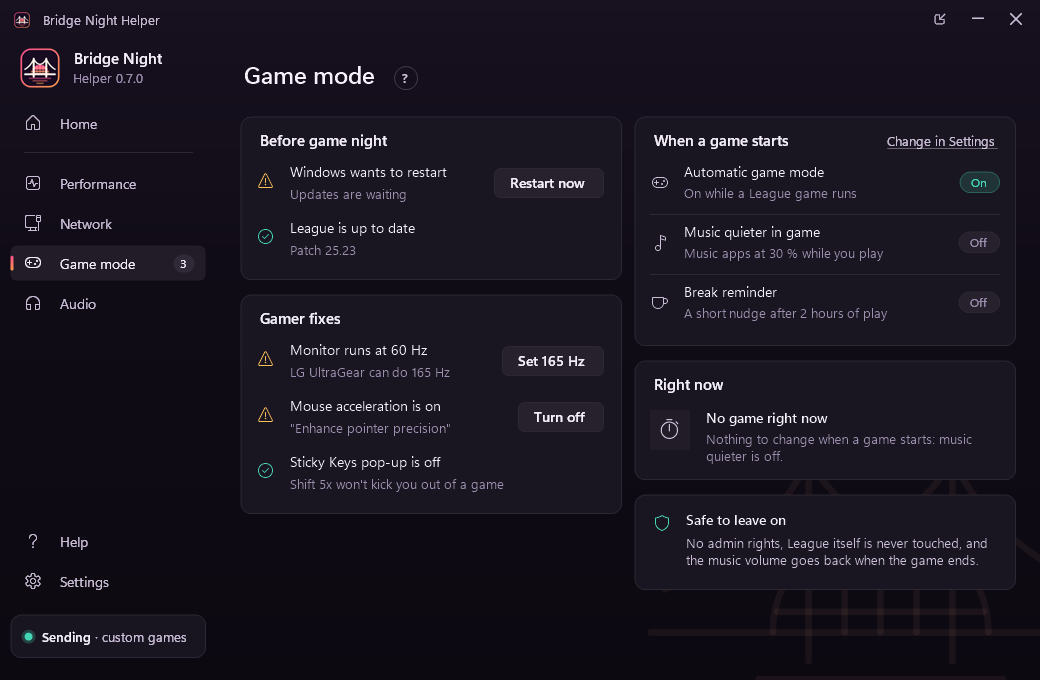
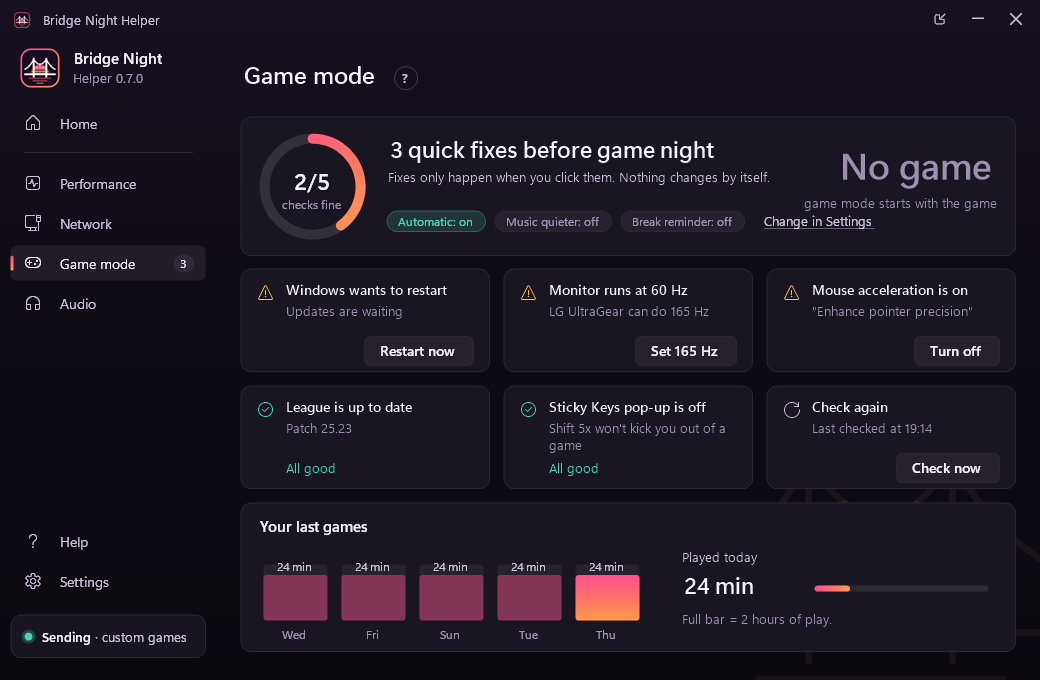
Helper 0.7: new Game mode page: readiness ring, checks as tiles with their fix, a small chart of your last games and today's play

diff --git a/helper/UiPcPages.cs b/helper/UiPcPages.cs
@@ -180,155 +180,226 @@ namespace BridgeNight
         }
     }
 
+    /// Game mode: one glance (ready ring + state), the checks as tiles with their fix button, and how long you played.
     class GameModePage : Page
     {
-        const int Slots = 4;
-        Card before, fixes;
-        readonly Label[][] beforeRows = new Label[Slots][], fixRows = new Label[Slots][];
-        readonly FlatButton[] beforeFix = new FlatButton[Slots], fixFix = new FlatButton[Slots];
-        List<PcCheck> beforeList = new List<PcCheck>(), fixList = new List<PcCheck>();
-        Label note, nowIcon, nowTitle, nowText;
+        const int Slots = 6, TileW = 250, TileH = 104, Gap = 13;
+        ReadyRing ring;
+        Label heroTitle, heroSub, stateBig, stateCaption, todayText, lengthsNote;
         Pill autoPill, musicPill, breakPill;
+        FlatButton change;
+        readonly Card[] tiles = new Card[Slots];
+        readonly Label[] tileIcon = new Label[Slots], tileTitle = new Label[Slots], tileDetail = new Label[Slots], tileOk = new Label[Slots];
+        readonly FlatButton[] tileFix = new FlatButton[Slots];
+        List<PcCheck> checks = new List<PcCheck>();
+        Bars lengths;
+        BarRow today;
+        DateTime noteUntil = DateTime.MinValue, checkedAt;
+        int slow;
+        Card again;
+        Label againWhen;
 
         public GameModePage(MainWindow w) : base(w, "Game mode")
         {
             Heading("Game mode", "Game mode");
 
-            before = Ui.Card(this, "Before game night", X0, Y0, 382, 200);
-            fixes = Ui.Card(this, "Gamer fixes", X0, Y0 + 214, 382, 260);
+            // 1. One glance: how ready the PC is, and what happens when a game starts.
+            var hero = Ui.Card(this, null, X0, Y0, W0, 140);
+            ring = new ReadyRing { Bounds = Theme.R(18, 16, 108, 108) };
+            hero.Controls.Add(ring);
+            heroTitle = L(hero, "", Theme.Big, Theme.Ink, 146, 18, 420, 32);
+            heroSub = L(hero, "", Theme.Small, Theme.Ink2, 146, 52, 440, 22);
+            autoPill = HeroPill(hero, 146);
+            musicPill = HeroPill(hero, 146);
+            breakPill = HeroPill(hero, 146);
+            change = Ui.Link(hero, "Change in Settings", 600, 92);
+            change.Click += delegate { Win.OpenSettings("Game mode"); };
+            stateBig = L(hero, "", Theme.Huge, Theme.Ink, W0 - 200, 26, 182, 50);
+            stateBig.TextAlign = ContentAlignment.MiddleRight;
+            stateCaption = L(hero, "", Theme.Small, Theme.Mute, W0 - 230, 78, 212, 20);
+            stateCaption.TextAlign = ContentAlignment.TopRight;
+
+            // 2. Every check is a tile: green when fine, amber with its fix button when not.
             for (var i = 0; i < Slots; i++)
             {
-                beforeRows[i] = Row(before, i, out beforeFix[i]);
-                fixRows[i] = Row(fixes, i, out fixFix[i]);
+                var t = tiles[i] = Ui.Card(this, null, X0 + (i % 3) * (TileW + Gap), Y0 + 152 + (i / 3) * (TileH + Gap), TileW, TileH);
+                tileIcon[i] = Ui.Icon(t, "", Theme.Good, 14, 14);
+                tileTitle[i] = L(t, "", Theme.Strong, Theme.Ink, 44, 12, TileW - 56, 22);
+                tileDetail[i] = L(t, "", Theme.Small, Theme.Mute, 44, 34, TileW - 56, 34);
+                tileOk[i] = L(t, "All good", Theme.Small, Theme.Good, 44, 74, 140, 20);
+                tileFix[i] = Ui.ButtonRight(t, "Fix", false, TileW - 14, 66);
                 var k = i;
-                beforeFix[i].Click += delegate { Fix(beforeList, k); };
-                fixFix[i].Click += delegate { Fix(fixList, k); };
+                tileFix[i].Click += delegate { Fix(k); };
             }
-            note = L(this, "", Theme.Small, Theme.Ink2, X0, Y0 + 480, 382, 40);
 
-            // Right column: what game mode does, read-only. The switches are in Settings.
-            const int rx = X0 + 394, rw = 382;
-            var when = Ui.Card(this, "When a game starts", rx, Y0, rw, 230);
-            Ui.Link(when, "Change in Settings", rw - 12, 12).Click += delegate { Win.OpenSettings("Game mode"); };
-            autoPill = StateRow(when, "", "Automatic game mode", "On while a League game runs", 46, true);
-            musicPill = StateRow(when, "", "Music quieter in game", "Music apps at 30 % while you play", 106, true);
-            breakPill = StateRow(when, "", "Break reminder", "A short nudge after 2 hours of play", 166, false);
+            // A free tile slot becomes "Check again", so the grid never has a hole.
+            again = Ui.Card(this, null, 0, 0, TileW, TileH);
+            Ui.Icon(again, "", Theme.Ink2, 14, 14);
+            L(again, "Check again", Theme.Strong, Theme.Ink, 44, 12, TileW - 56, 22);
+            againWhen = L(again, "", Theme.Small, Theme.Mute, 44, 34, TileW - 56, 34);
+            Ui.ButtonRight(again, "Check now", false, TileW - 14, 66).Click += delegate { Fill(); };
 
-            var now = Ui.Card(this, "Right now", rx, Y0 + 244, rw, 120);
-            nowIcon = L(now, "", Theme.GlyphBig, Theme.Ink2, 16, 50, 40, 40);
-            nowIcon.TextAlign = ContentAlignment.MiddleCenter;
-            nowIcon.BackColor = Theme.NavActive;
-            nowIcon.AccessibleRole = AccessibleRole.Graphic;
-            nowTitle = L(now, "", Theme.Strong, Theme.Ink, 70, 48, 296, 22);
-            nowText = L(now, "", Theme.Small, Theme.Mute, 70, 70, 296, 40);
-
-            var safe = Ui.Card(this, null, rx, Y0 + 378, rw, 96);
-            Ui.Icon(safe, "", Theme.Good, 16, 18);
-            L(safe, "Safe to leave on", Theme.Strong, Theme.Ink, 50, 16, 316, 22);
-            L(safe, "No admin rights, League itself is never touched, and the music volume goes back when the game ends.", Theme.Small, Theme.Ink2, 50, 40, 316, 44);
+            // 3. A small picture of your play: length of the last games, and today's total against the break reminder.
+            var play = Ui.Card(this, "Your last games", X0, Y0 + 152 + 2 * (TileH + Gap), W0, 150);
+            lengths = new Bars { Bounds = Theme.R(16, 40, 390, 100), Color = Theme.Orange, HighlightLast = true, Empty = "Play a custom game and its length shows up here." };
+            play.Controls.Add(lengths);
+            L(play, "Played today", Theme.Small, Theme.Ink2, 440, 46, 200, 20);
+            todayText = L(play, "", Theme.Big, Theme.Ink, 440, 68, 130, 32);
+            today = new BarRow { Bounds = Theme.R(574, 74, 186, 24), LabelWidth = 0, ValueWidth = 0, Gradient = true };
+            play.Controls.Add(today);
+            lengthsNote = L(play, "", Theme.Small, Theme.Mute, 440, 108, 320, 20);
         }
 
-        Pill StateRow(Card card, string glyph, string title, string sub, int y, bool divider)
+        Pill HeroPill(Card hero, int x)
         {
-            Ui.Icon(card, glyph, Theme.Ink2, 14, y + 10);
-            L(card, title, Theme.Body, Theme.Ink, 48, y, 250, 22);
-            L(card, sub, Theme.Small, Theme.Mute, 48, y + 22, 250, 20);
-            var p = new Pill { AnchorRight = card.Width - Theme.Px(16), Top = Theme.Px(y + 9) };
-            card.Controls.Add(p);
+            var p = new Pill { Left = Theme.Px(x), Top = Theme.Px(94) };
+            hero.Controls.Add(p);
             p.Set("Off", false);
-            if (divider) Ui.Divider(card, 16, y + 52, 350);
             return p;
         }
 
-        Label[] Row(Card card, int i, out FlatButton fix)
+        /// Pills sit in one row after each other, the Settings link right after them.
+        void LayoutPills()
         {
-            var y = 46 + i * 56;
-            var icon = Ui.Icon(card, "", Theme.Good, 14, y + 8);
-            var title = L(card, "", Theme.Body, Theme.Ink, 48, y, 210, 24);
-            var detail = L(card, "", Theme.Small, Theme.Mute, 48, y + 23, 210, 20);
-            fix = Ui.ButtonRight(card, "Fix", false, 366, y + 4);
-            return new[] { icon, title, detail };
+            var x = autoPill.Left;
+            foreach (var p in new[] { autoPill, musicPill, breakPill }) { p.Left = x; x = p.Right + Theme.Px(8); }
+            change.Left = x + Theme.Px(4);
         }
 
-        void Fix(List<PcCheck> list, int i)
+        void Fix(int i)
         {
-            if (i >= list.Count) return;
-            var c = list[i];
+            if (i >= checks.Count) return;
+            var c = checks[i];
             if (c.FixLabel.IndexOf("restart", StringComparison.OrdinalIgnoreCase) >= 0 &&
                 MessageBox.Show(this, "Restart Windows now? Save your work first.", Program.Title, MessageBoxButtons.YesNo, MessageBoxIcon.Question) != DialogResult.Yes) return;
             string text;
             var ok = GameMode.Fix(c.Id, out text);
-            Ui.Set(note, string.IsNullOrEmpty(text) ? (ok ? "Done." : "That did not work.") : text, ok ? Theme.Ink2 : Theme.Warn);
+            Ui.Set(heroSub, string.IsNullOrEmpty(text) ? (ok ? "Done." : "That did not work.") : text, ok ? Theme.Good : Theme.Warn);
+            noteUntil = DateTime.UtcNow.AddSeconds(8);
             Win.Log("Game mode fix " + c.Id + ": " + (ok ? "done" : "failed") + (string.IsNullOrEmpty(text) ? "" : " (" + text + ")"));
             Fill();
         }
 
         void Fill()
         {
-            beforeList = GameMode.BeforeNight() ?? new List<PcCheck>();
-            fixList = GameMode.Fixes() ?? new List<PcCheck>();
-            var h1 = Show(before, beforeRows, beforeFix, beforeList, "Nothing to check right now.");
-            before.Height = Theme.Px(h1);
-            fixes.Top = before.Bottom + Theme.Px(14);
-            var h2 = Show(fixes, fixRows, fixFix, fixList, "Nothing to fix: your settings look right.");
-            fixes.Height = Theme.Px(h2);
-            note.Top = fixes.Bottom + Theme.Px(10);
-            var problems = 0;
-            foreach (var c in beforeList) if (c.Problem) problems++;
-            foreach (var c in fixList) if (c.Problem) problems++;
-            Win.SetBadge(problems);
-        }
-
-        static int Show(Card card, Label[][] rows, FlatButton[] buttons, List<PcCheck> list, string empty)
-        {
+            var all = new List<PcCheck>();
+            all.AddRange(GameMode.BeforeNight() ?? new List<PcCheck>());
+            all.AddRange(GameMode.Fixes() ?? new List<PcCheck>());
+            // Things to fix first, then the ones that are fine.
+            checks = all.Where(c => c.Problem).Concat(all.Where(c => !c.Problem)).Take(Slots).ToList();
+            var problems = all.Count(c => c.Problem);
             for (var i = 0; i < Slots; i++)
             {
-                var has = i < list.Count || (i == 0 && list.Count == 0);
-                foreach (var l in rows[i]) Ui.Show(l, has);
-                Ui.Show(buttons[i], i < list.Count && list[i].FixLabel != "");
+                var has = i < checks.Count;
+                Ui.Show(tiles[i], has);
                 if (!has) continue;
-                if (list.Count == 0)
+                var c = checks[i];
+                Ui.Set(tileIcon[i], c.Problem ? "" : "", c.Problem ? Theme.Warn : Theme.Good);
+                Ui.Set(tileTitle[i], c.Title);
+                Ui.Set(tileDetail[i], c.Detail);
+                var canFix = c.Problem && c.FixLabel != "";
+                Ui.Show(tileFix[i], canFix);
+                Ui.Show(tileOk[i], !canFix);
+                Ui.Set(tileOk[i], c.Problem ? "Worth a look" : "All good", c.Problem ? Theme.Warn : Theme.Good);
+                if (canFix)
                 {
-                    Ui.Set(rows[0][0], "\uE930", Theme.Good);
-                    Ui.Set(rows[0][1], empty);
-                    rows[0][1].Width = card.Width - Theme.Px(64);
-                    Ui.Set(rows[0][2], "");
-                    continue;
+                    tileFix[i].Text = c.FixLabel;
+                    tileFix[i].FitWidth();
+                    tileFix[i].Left = tiles[i].Width - Theme.Px(14) - tileFix[i].Width;
+                    tileFix[i].AccessibleDescription = c.Title;
                 }
-                var c = list[i];
-                Ui.Set(rows[i][0], c.Problem ? "\uE7BA" : "\uE930", c.Problem ? Theme.Warn : Theme.Good);
-                Ui.Set(rows[i][1], c.Title);
-                Ui.Set(rows[i][2], c.Detail);
-                var btnW = c.FixLabel != "" ? buttons[i].Width : 0;
-                if (c.FixLabel != "")
-                {
-                    buttons[i].Text = c.FixLabel;
-                    buttons[i].FitWidth();
-                    buttons[i].Left = card.Width - Theme.Px(16) - buttons[i].Width;
-                    buttons[i].AccessibleDescription = c.Title;
-                    btnW = buttons[i].Width;
-                }
-                rows[i][1].Width = rows[i][2].Width = card.Width - Theme.Px(48 + 24) - btnW;
             }
-            return 46 + Math.Max(1, Math.Min(Slots, list.Count)) * 56 + 6;
+            checkedAt = DateTime.Now;
+            Ui.Set(againWhen, "Last checked at " + checkedAt.ToString("HH:mm", Ui.En));
+            Ui.Show(again, checks.Count < Slots);
+            if (checks.Count < Slots) again.Location = tiles[checks.Count].Location;
+            ring.Set(all.Count - problems, all.Count);
+            Ui.Set(heroTitle, all.Count == 0 ? "Checking your PC…" : problems == 0 ? "Ready for game night" : problems == 1 ? "1 quick fix before game night" : problems + " quick fixes before game night");
+            if (DateTime.UtcNow >= noteUntil)
+                Ui.Set(heroSub, problems == 0 ? "Everything below looks right on this PC." : "Fixes only happen when you click them. Nothing changes by itself.", Theme.Ink2);
+            Win.SetBadge(problems);
+            FillPlay();
         }
 
-        public override void Shown() { Fill(); }
+        void FillPlay()
+        {
+            var games = PerfMon.LastGames() ?? new List<GameReport>();
+            var shown = games.Take(5).Reverse().ToList(); // oldest left, newest right
+            var mins = shown.Select(g => (float)Math.Max(1, (g.End - g.Start).TotalMinutes)).ToList();
+            var top = mins.Count == 0 ? 1f : Math.Max(30f, mins.Max());
+            lengths.Values = mins.Select(m => 100f * m / top).ToArray();
+            lengths.TopLabels = mins.Select(m => Math.Round(m) + " min").ToArray();
+            lengths.BottomLabels = shown.Select(g => g.Start.ToString("ddd", Ui.En)).ToArray();
+            lengths.Invalidate();
+            var played = TimeSpan.Zero;
+            foreach (var g in games) if (g.Start.Date == DateTime.Today) played += g.End - g.Start;
+            var start = PcServices.GameStartedAt;
+            if (start.HasValue) played += DateTime.Now - start.Value;
+            Ui.Set(todayText, played.TotalMinutes < 1 ? "–" : played.TotalHours >= 1 ? (int)played.TotalHours + " h " + played.Minutes + " min" : played.Minutes + " min");
+            today.Set("", (float)(played.TotalMinutes / 120.0), "");
+            Ui.Set(lengthsNote, S.BreakReminder ? "Full bar = 2 hours, then the break reminder." : "Full bar = 2 hours of play.");
+        }
+
+        public override void Shown() { slow = 0; Fill(); }
 
         public override void Tick()
         {
             var auto = S.GameModeAuto;
-            autoPill.Set(auto ? "On" : "Off", auto);
-            musicPill.Set(S.MusicQuieter ? "On" : "Off", auto && S.MusicQuieter);
-            breakPill.Set(S.BreakReminder ? "On" : "Off", auto && S.BreakReminder);
-            var active = GameMode.Active;
+            autoPill.Set(auto ? "Automatic: on" : "Automatic: off", auto);
+            musicPill.Set(S.MusicQuieter ? "Music quieter: on" : "Music quieter: off", auto && S.MusicQuieter);
+            breakPill.Set(S.BreakReminder ? "Break reminder: on" : "Break reminder: off", auto && S.BreakReminder);
+            LayoutPills();
             var start = PcServices.GameStartedAt;
-            Ui.Set(nowIcon, active ? "" : start.HasValue ? "" : "", active ? Theme.Good : Theme.Ink2);
-            Ui.Set(nowTitle, active ? "Game mode is on" : start.HasValue ? "In game · " + Ui.Clock(DateTime.Now - start.Value) : "No game right now");
-            Ui.Set(nowText, active ? (GameMode.ActiveText == "" ? "Everything goes back to normal when the game ends." : GameMode.ActiveText + ". Back to normal when the game ends.")
-                : !auto ? "Automatic is off: nothing changes when a game starts."
-                : S.MusicQuieter ? "When a game starts, music gets quieter. It goes back when the game ends."
-                : "Nothing to change when a game starts: music quieter is off.");
+            var active = GameMode.Active;
+            Ui.Set(stateBig, start.HasValue ? Ui.Clock(DateTime.Now - start.Value) : "No game", start.HasValue ? Theme.Ink : Theme.Mute);
+            Ui.Set(stateCaption, start.HasValue ? (active ? "in game · game mode on" : "in game") : auto ? "game mode starts with the game" : "automatic game mode is off");
+            if (noteUntil != DateTime.MinValue && DateTime.UtcNow >= noteUntil) { noteUntil = DateTime.MinValue; Fill(); }
+            if (++slow % 30 == 0) FillPlay();
+        }
+    }
+
+    /// Ring that fills with the share of checks that are fine; the count sits in the middle.
+    class ReadyRing : Control
+    {
+        int ok, total = -1;
+
+        public ReadyRing()
+        {
+            SetStyle(ControlStyles.UserPaint | ControlStyles.AllPaintingInWmPaint | ControlStyles.OptimizedDoubleBuffer | ControlStyles.ResizeRedraw, true);
+            BackColor = Theme.Card;
+            TabStop = false;
+            AccessibleRole = AccessibleRole.ProgressBar;
+        }
+
+        public void Set(int okCount, int totalCount)
+        {
+            if (okCount == ok && totalCount == total) return;
+            ok = okCount;
+            total = totalCount;
+            AccessibleName = total <= 0 ? "Checking" : ok + " of " + total + " checks fine";
+            Invalidate();
+        }
+
+        protected override void OnPaint(PaintEventArgs e)
+        {
+            var g = e.Graphics;
+            g.Clear(BackColor);
+            g.SmoothingMode = SmoothingMode.AntiAlias;
+            float w = Theme.Px(10);
+            var r = new RectangleF(w / 2f + 1, w / 2f + 1, Width - w - 2, Height - w - 2);
+            using (var track = new Pen(Color.FromArgb(28, 255, 255, 255), w)) g.DrawEllipse(track, r);
+            if (total > 0 && ok > 0)
+            {
+                var sweep = ok == total ? 359.9f : 360f * ok / total;
+                using (var b = ok == total ? (Brush)new SolidBrush(Theme.Good) : Theme.Sunset(r, 45f))
+                using (var p = new Pen(b, w) { StartCap = LineCap.Round, EndCap = LineCap.Round })
+                    g.DrawArc(p, r, -90, sweep);
+            }
+            var big = total <= 0 ? "…" : ok + "/" + total;
+            TextRenderer.DrawText(g, big, Theme.Big, new Rectangle(0, 0, Width, Height - Theme.Px(12)), Theme.Ink,
+                TextFormatFlags.HorizontalCenter | TextFormatFlags.VerticalCenter | TextFormatFlags.NoPadding);
+            TextRenderer.DrawText(g, "checks fine", Theme.Tiny, new Rectangle(0, Height / 2 + Theme.Px(10), Width, Theme.Px(18)), Theme.Mute,
+                TextFormatFlags.HorizontalCenter | TextFormatFlags.NoPadding);
         }
     }
 

diff --git a/helper/tools/preview/FakePcServices.cs b/helper/tools/preview/FakePcServices.cs
@@ -26,6 +26,7 @@ namespace BridgeNight
 
     static class PcServices
     {
+        internal static string Scrub(string text) { return text; }
         public static void Start(Settings settings, Action<string> log) { }
         public static void Tick() { }
         public static void Stop() { }
